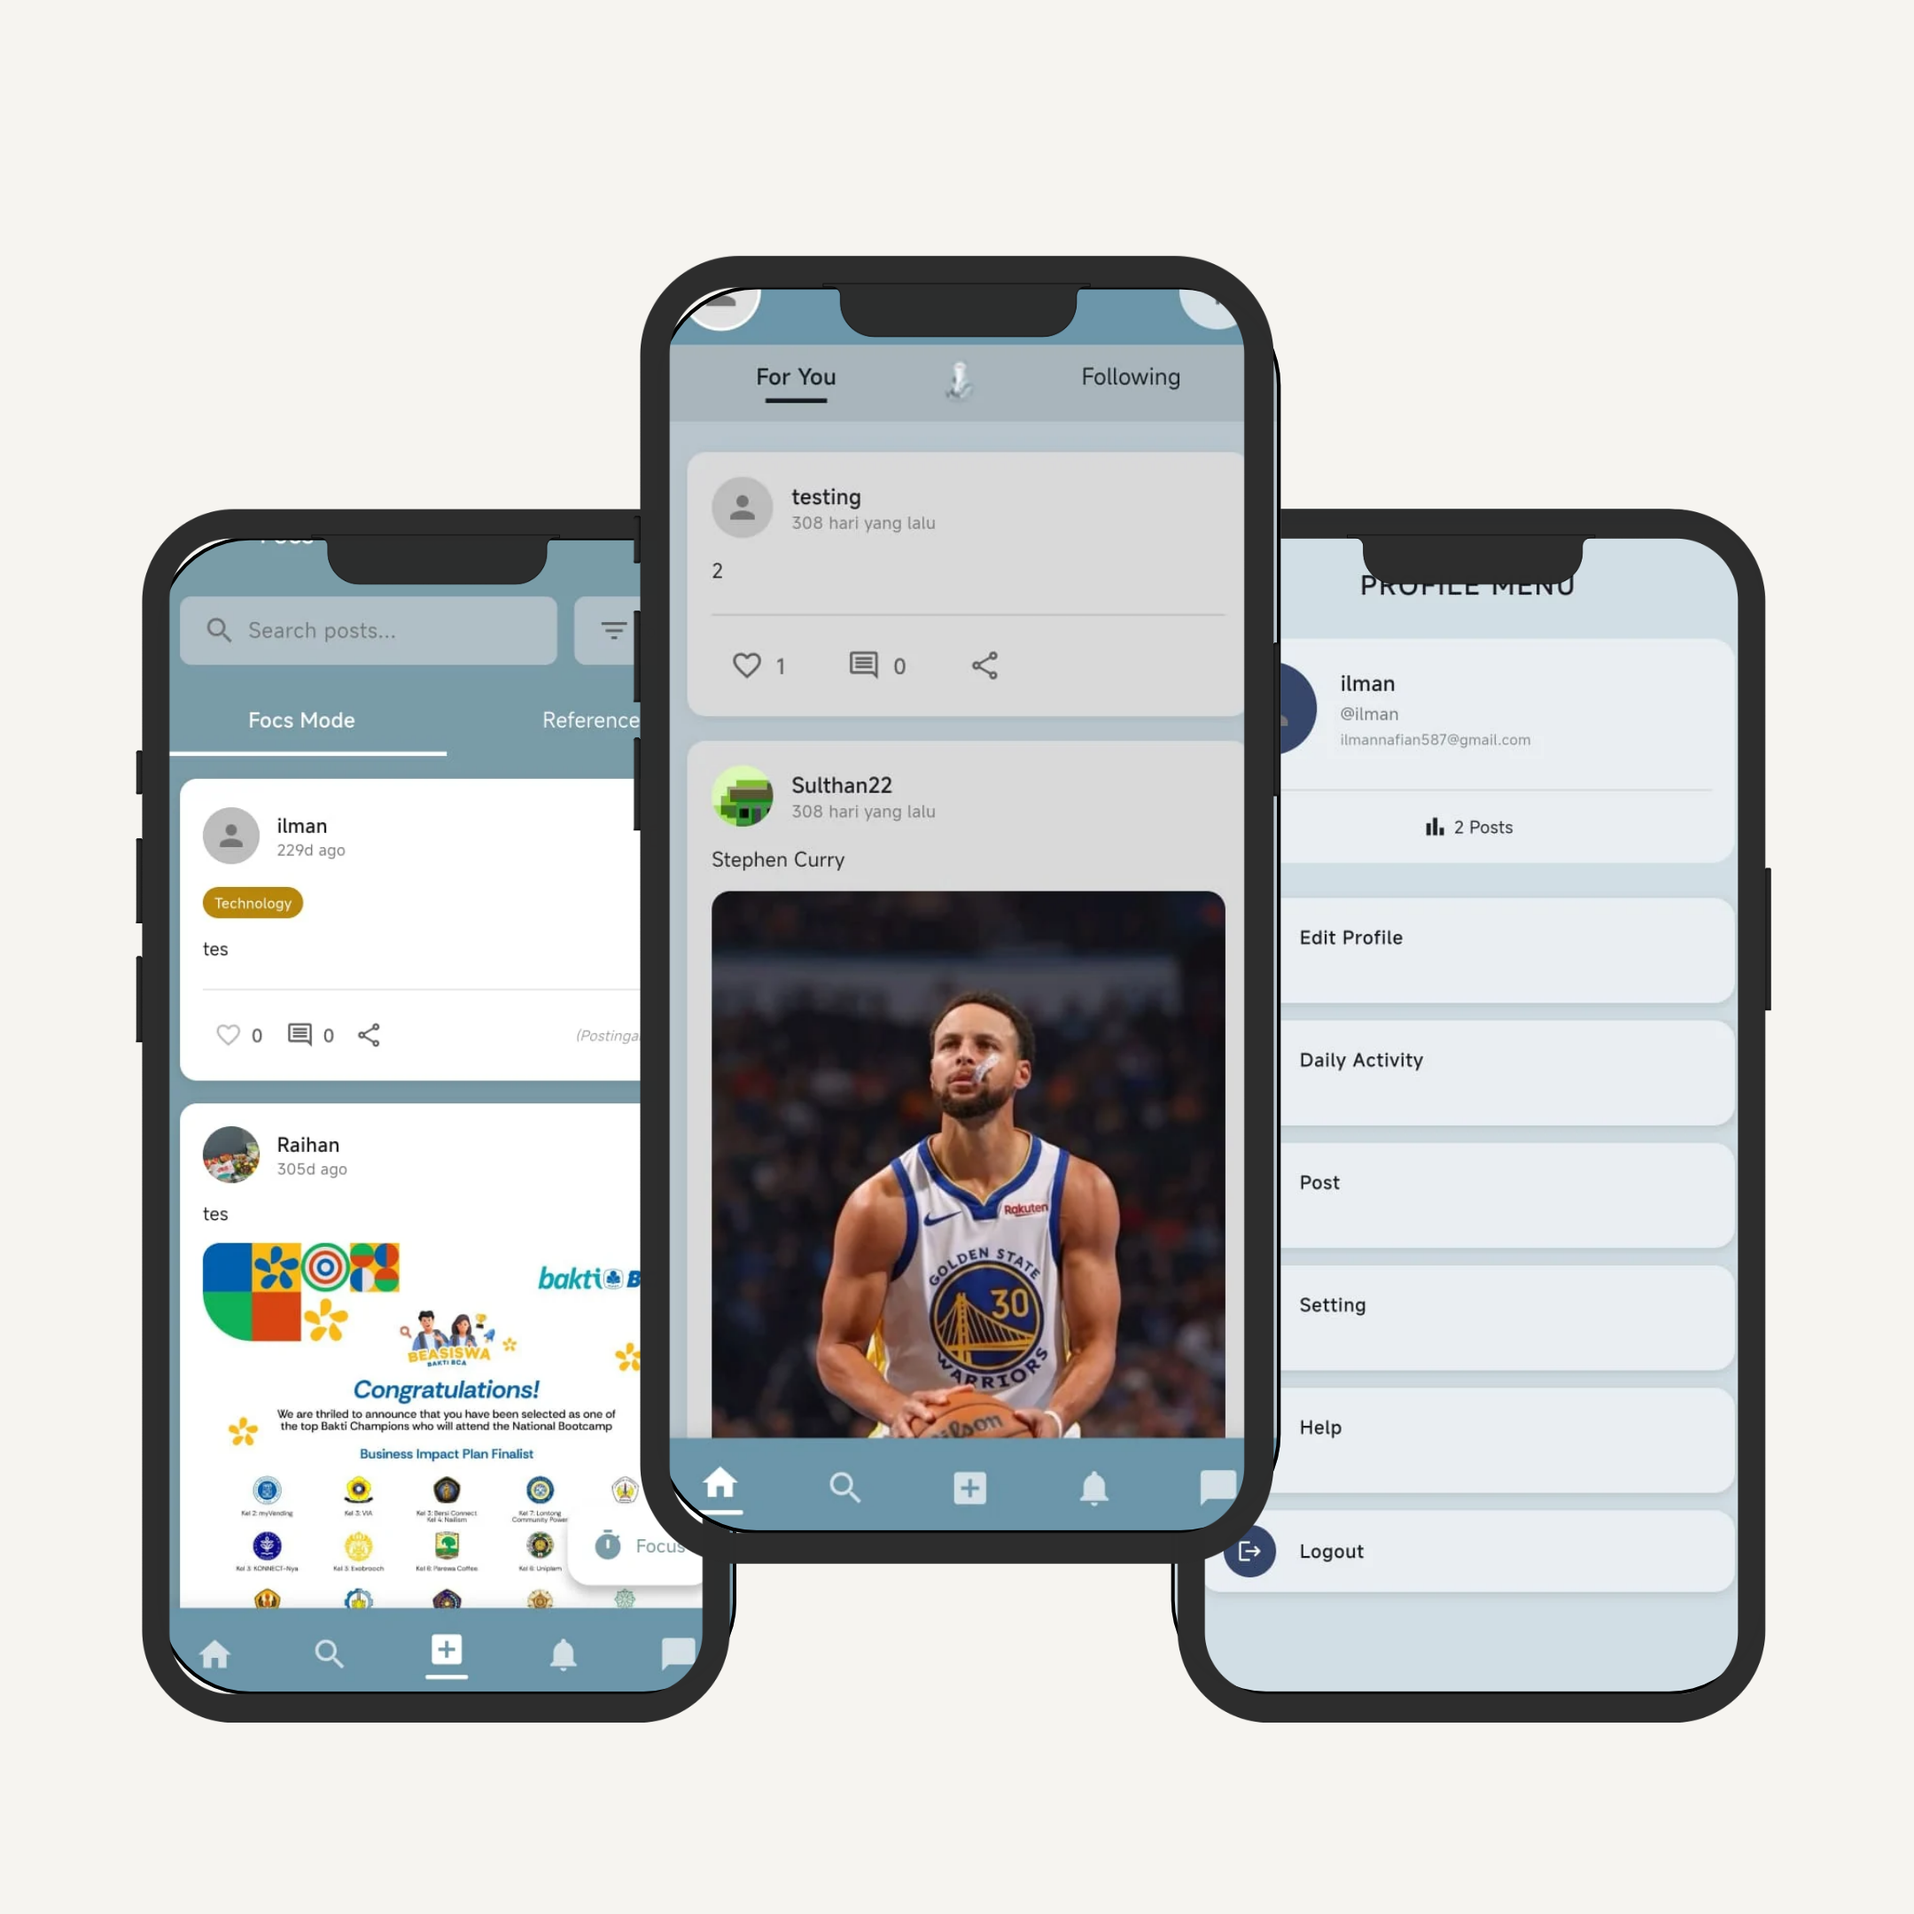
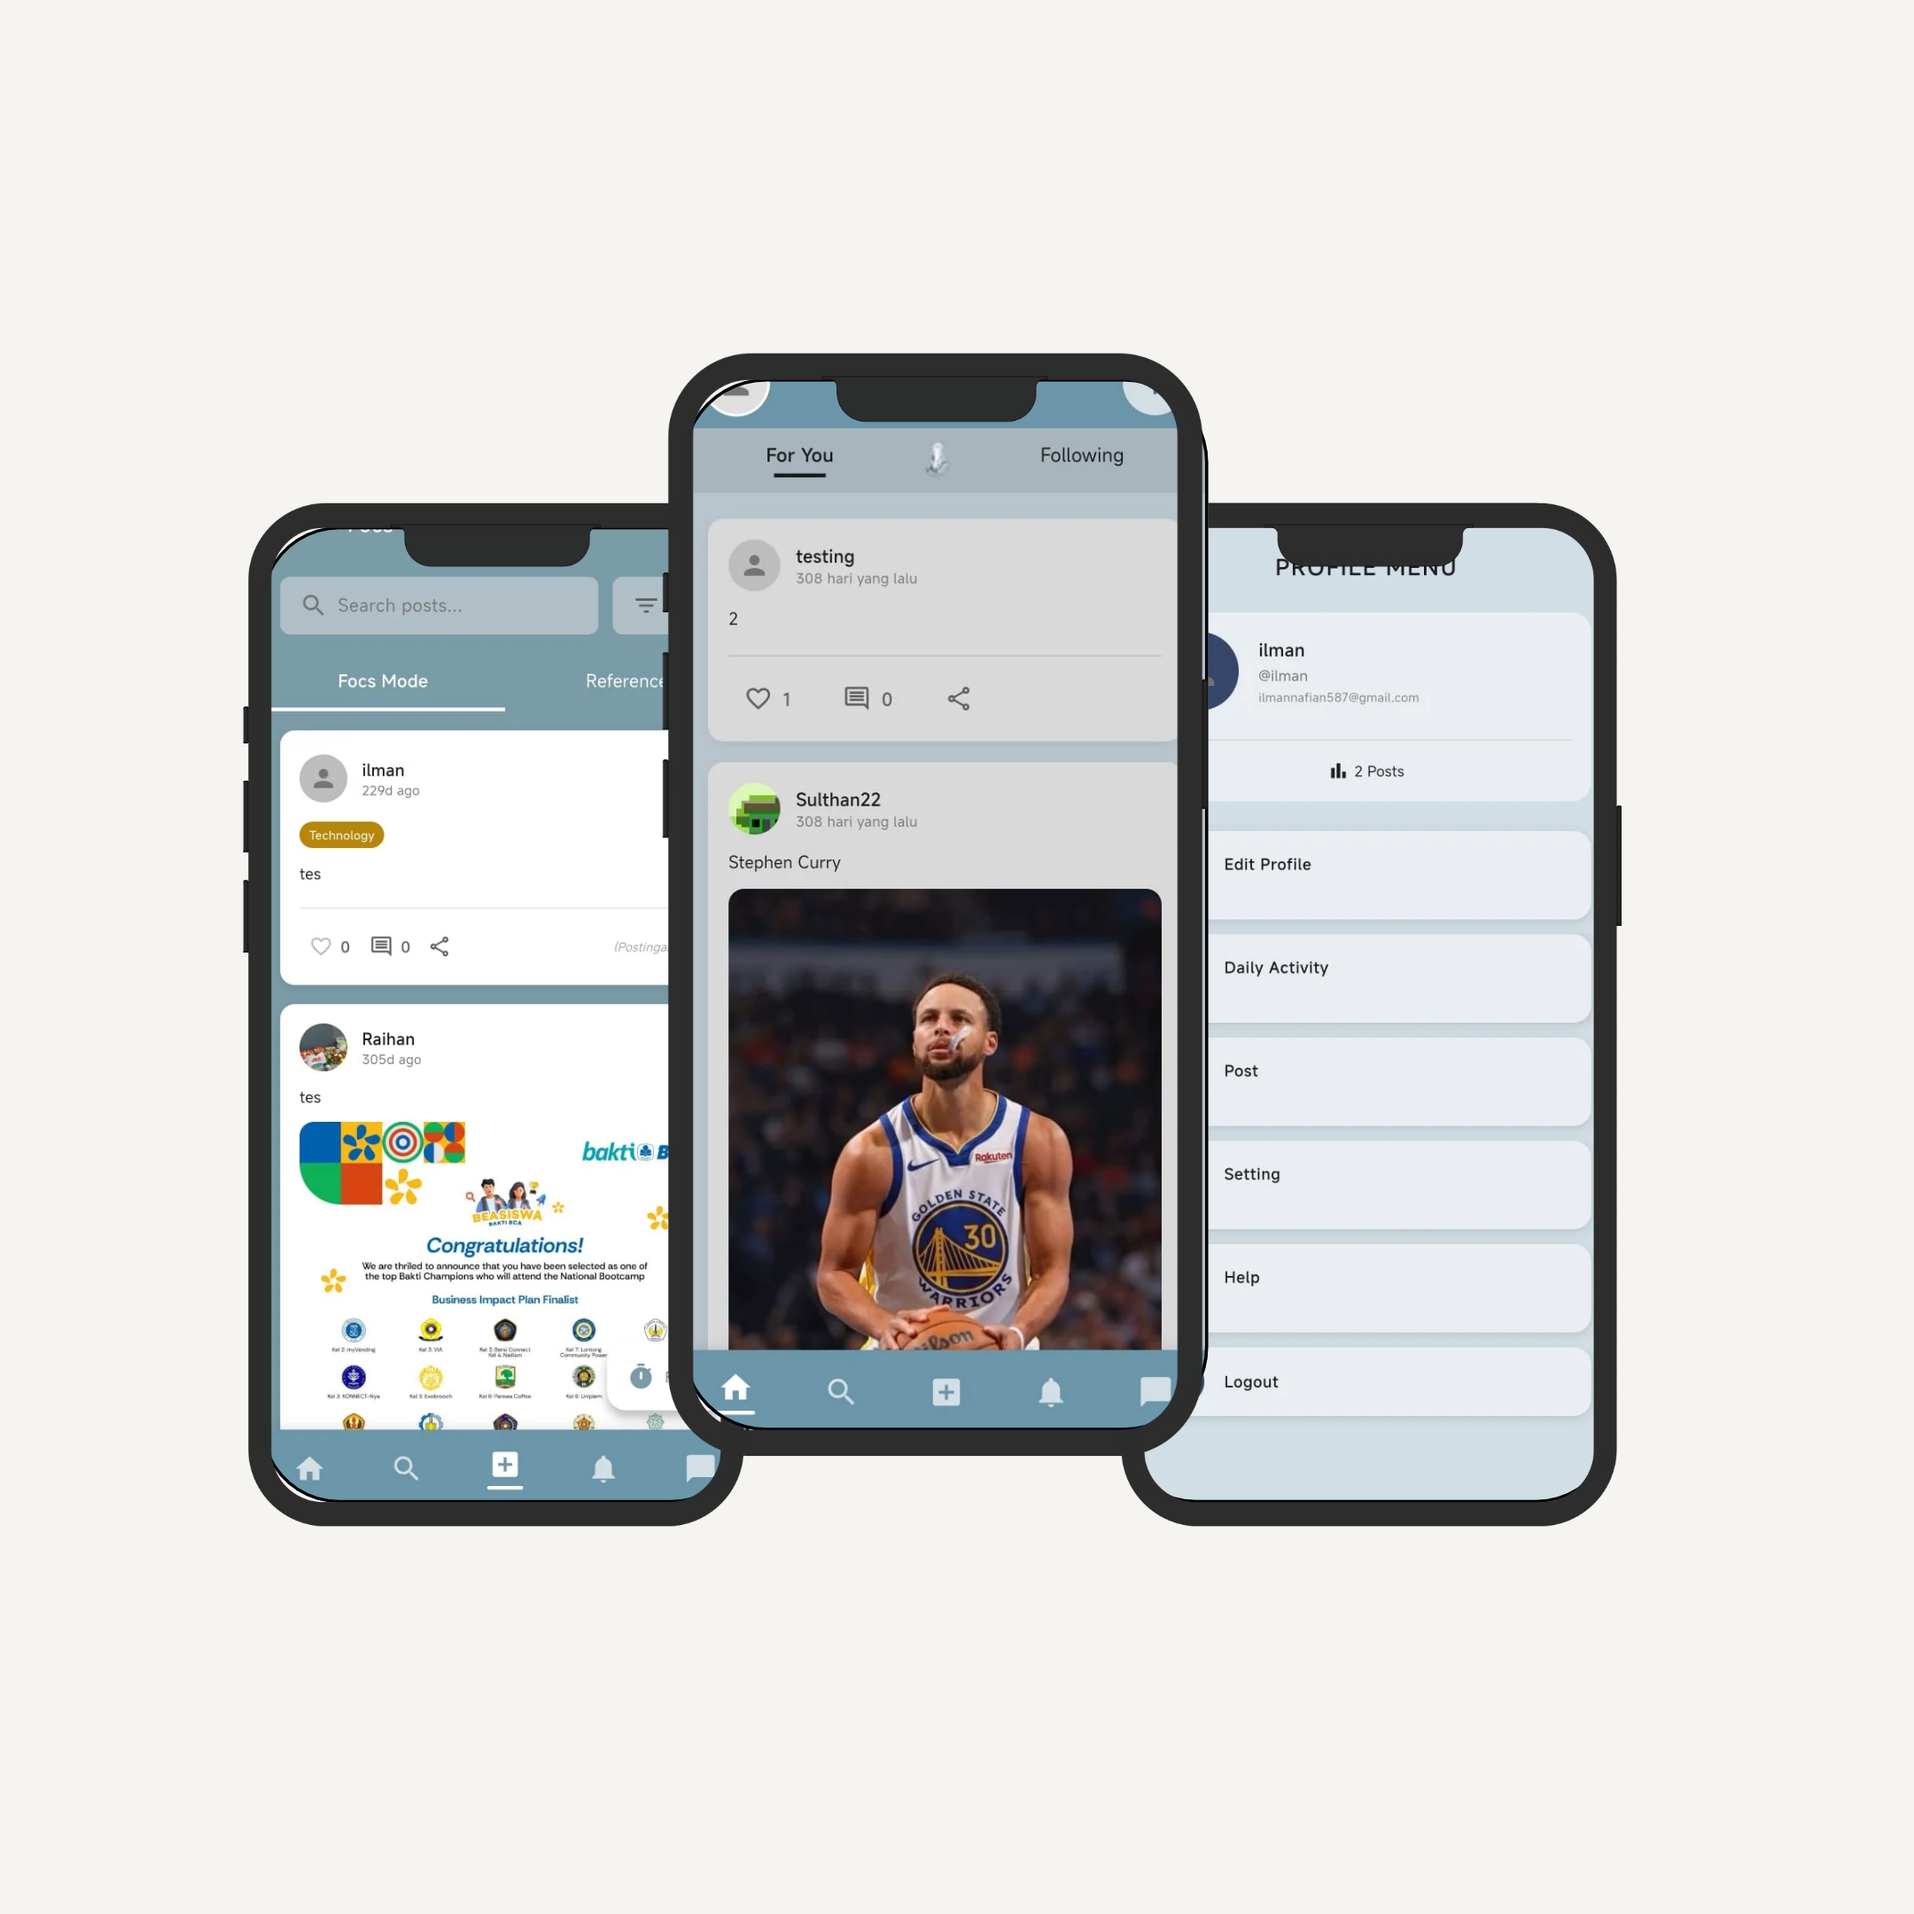
perbaikan ukuran foto proyek

diff --git a/src/components/Projects.jsx b/src/components/Projects.jsx
@@ -8,15 +8,12 @@ function Thumb({ project }) {
   const [failed, setFailed] = useState(false)
   if (project.image && !failed) {
     return (
-      <div className="flex aspect-[16/10] w-full items-center justify-center overflow-hidden rounded-lg bg-canvas">
-        <img
-          src={project.image}
-          alt={`Tampilan proyek ${project.title}`}
-          onError={() => setFailed(true)}
-          loading="lazy"
-          className="size-full object-contain"
-        />
-      </div>
+      <img
+        src={project.image}
+        alt={`Tampilan proyek ${project.title}`}
+        onError={() => setFailed(true)}
+        className="aspect-[16/10] w-full rounded-lg object-cover"
+      />
     )
   }
   return (
